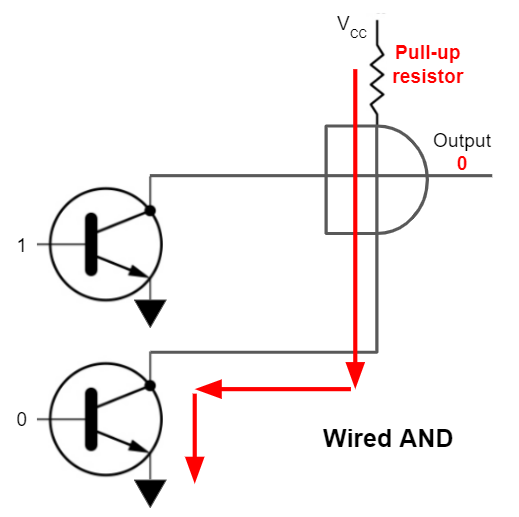
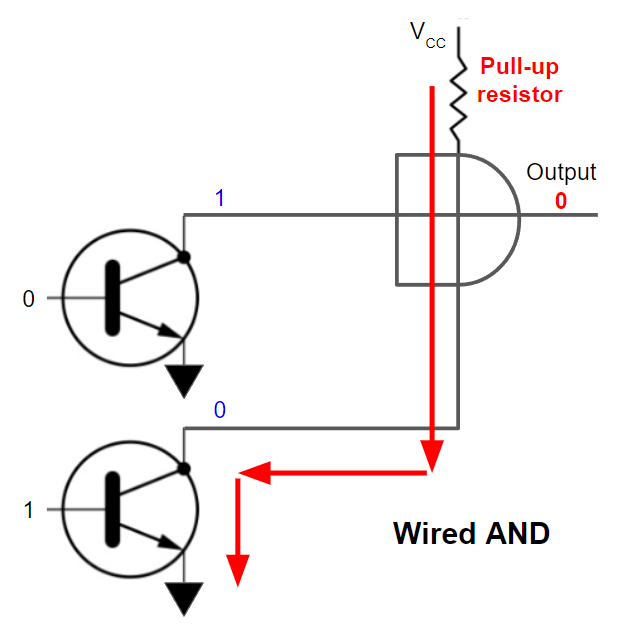
fix errata on ch02 of CE

diff --git a/docs/CE/ch02_co/ce02_04_0_gate.md b/docs/CE/ch02_co/ce02_04_0_gate.md
@@ -10,20 +10,27 @@ tags:
 
 > `Combinatorial Logic(조합논리) Circuit의 boolean function들을 구현한 H/W`.  
 >  
-> 보통 IC chip으로 제공되지만, Transistor로 꾸며볼 수도 있으며 FPGA에서는 아예 HDL을 통해 programming 형태로 이용할 수 있도록 제공되기도 함.
+> 보통 IC chip으로 제공되지만, ^^Transistor로 구현^^ 할 수도 있으며 ^^FPGA에서는 아예 HDL을 통해 programming 형태로 이용^^ 할 수 있도록 제공되기도 함.
 
 Combinatorial Logic Circuit은 
 
 * 일종의 instaneous system이며 
-* Boolean algebra의 logic function을 구현한 것이기 때문에 
+* Boolean algebra의 logic function을 구현한 것
 
-기본적인 Boolean algebra를 다루고, Combinatorial logic을 구현할 때 고려해야하는 noise에 대한 처리 방법과 propagation delay, output 방식등을 아주 간략히 다룬다. 
+이기 때문에  
+
+Cominatorial Logic Circuit에 대한 이번 장에서는
+
+* 전에 다룬 [Boolean algebra](../ch01/ch01_13_boolean_algebra.md)를 기반으로, 
+* Combinatorial logic을 구현할 때 고려해야하는 ^^noise에 대한 처리 방법^^ 과 
+* propagation delay, 
+* output 방식 등을 아주 간략히 다룬다. 
   
   
 `디지털회로` 나 `디지털회로실습`, 또는 Microprocessor 등에 대해 공부할 때 보다 자세히 다루게 되는 내용들을 대략적으로 소개하는 수준임.
 
-* [Combinatorial Logic Circuit](https://www.notion.so/mmmil/2-4-Logic-Gates-55f9c9b196794194a988ea125af72cd0)
-* [Gates and Boolean Algebra](https://dsaint31.tistory.com/entry/CI-Logic-Gates)
+* [Combinatorial Logic Circuit (ext)](https://dsaint31.tistory.com/entry/CI-Combinational-Circuit-or-Combinatonal-Logic-Circuit)
+* [Gates and Boolean Algebra (ext)](https://dsaint31.tistory.com/entry/CI-Logic-Gates)
 * [Noise Glitch, Schmitt Trigger and Differential signaling](ce02_04_1_glitch.md)
 * [Propagation Delay](ce02_04_3_propagation_delay.md)
 * [Gate Outputs](ce02_04_4_0_gate_outputs.md)

diff --git a/docs/CE/ch02_co/ce02_04_4_2_open_collector.md b/docs/CE/ch02_co/ce02_04_4_2_open_collector.md
@@ -2,13 +2,20 @@
 
 Tomtem-Pole Output과 달리, Open-collector (or open-drain) output은 여러 개를 같이 연결할 수 있다는 장점을 가짐.
 
-* 또한 `1`에 대한 출력을 5V 이상으로 변경 가능함.
+* 또한 `1`에 대한 출력을 5V 이상으로 변경 가능함 (pull-up resistor를 쓴 경우).
 * Totem-Pole Output보다 높은 current를 처리 가능. (LED 제어 등에 많이 사용됨)
 
+
+## 다음 그림은 Open-collector Output을 보여줌.
 ![open-collector_output](imgs/open_collector_output_pullup_resistor.png)
 
-* `floating` 상태에서 output을 오실로스코프의 probe로 찍을 경우, 아무런 voltage가 나오지를 않는데, 이는 0v를 의미하는게 아닌 probe를 허공에 대고 있는 것을 의미한다. 
-* 도체가 공중에 떠있는 상태인 `floating`은 voltage를 정의할 수 없다.
+* 왼쪽에 보이는 2개의 경우가 pull-up resistor가 없는 경우로 `1`을 출력하지 못함을 보여줌.
+    * `floating` (or `Hi-Z`) 상태에서 output을 오실로스코프의 probe로 찍을 경우, 아무런     voltage가 나오지를 않는데, 이는 0v를 의미하는게 아닌 probe를 허공에 대고 있는 것을 의미한다. 
+    * 도체가 공중에 떠있는 상태인 `floating`은 voltage를 정의할 수 없다.
+* 오른쪽의 박스로 보이는 경우가 pull-up resistor가 있는 경우이며, Open-collector라고 할 경우 대부분 이 경우를 말함.
+    * base에 `0`이 가해질 경우, transistor는 끊긴 상태로 저항이 무한대이므로 대부분의 전압이 transistor에 걸리므로 output은 `1`에 해당하는 출력이 이루어짐.
+    * base에 `1`이 가해질 경우, output은 gnd와 연결되어 `0`에 해당하는 출력이 이루어짐.
+
 
 ## 단점
 * Totem-Pole Output보다 속도가 느림 (pull-up resistor가 낮을 수록 속도가 빠르나, 이 경우 높은 전력소모가 발생.).

diff --git a/docs/CE/ch02_co/ce02_04_4_1_totem_pole_output.md b/docs/CE/ch02_co/ce02_04_4_1_totem_pole_output.md
@@ -7,10 +7,11 @@
 
 ![totem-pole-output](imgs/totem_pole_output.png)
 
-* 왼쪽은 input이 `0`이 들어가서, Totem-Pole의 상단에는 `1`이 하단에는 `0`이 들어가며 이로 인해 output이 `1`이 나옴.
-* 오른쪽은 output이 `1`이 들어간 경우로 output이 `0`으로 나옴.
-* 왼쪽과 오른쪽 각각의 그림에서 상하로 연결된 NPN BJT들의 구조가 Totem-Pole 임.
-* 상하의 NPN BJT의 base에서 들어가는 input은 항상 달라야 함(상보형 동작).
+* 오른쪽 푸른색 박스가 Totem-pole output의 구성이고, 왼쪽 검은색 박스는 Totem-pole output의 transistor에 입력을 가할 때의 출력을 보여준다. 
+    * 왼쪽 검은색 박스의 왼쪽은 input이 `0`이 들어가서, Totem-Pole의 상단에는 `1`이 하단에는 `0`이 들어가며 이로 인해 output이 `1`이 나옴.
+    * 왼쪽 검은색 박스의 오른쪽은 output이 `1`이 들어간 경우로 output이 `0`으로 나옴.
+* 왼쪽 검은색 박스의 왼쪽과 오른쪽 각각의 그림에서 ^^상하로 연결된 NPN BJT들의 구조가 Totem-Pole^^ 임.
+    * 상하의 NPN BJT의 base에서 들어가는 input은 항상 달라야 함(상보형 동작).
 
 상단의 BJT는 일종의 **active pull-up** 으로 출력을 high voltage와 연결하고 있음.
 

diff --git a/docs/CE/ch02_co/ce02_05_0_adder_encoder_demux.md b/docs/CE/ch02_co/ce02_05_0_adder_encoder_demux.md
@@ -12,10 +12,10 @@ Programming에서는 단순한 statement와 expression들을 조합하여 functi
 
 ## 구성.
 
-* [Half Adder and Full Adder](#)
+* [Half Adder and Full Adder (notion)](https://dsaint31.notion.site/2-5-1-Building-an-Adder-8d766ecdc59d4241bdd70309f9651e12)
 * [Decoder and Encder](https://dsaint31.tistory.com/entry/CI-Binary-Decoderhttps://dsaint31.tistory.com/manage/newpost/404?type=post&returnURL=https%3A%2F%2Fdsaint31.tistory.com%2Fentry%2FCI-Binary-Decoder)
-  - One-hot code 에서 binary code로 변환하는 binary encoder
-  - 이를 반대로 수행하는 binary decoder를 간단히 살펴봄.
+  * One-hot code 에서 binary code로 변환하는 binary encoder
+  * 이를 반대로 수행하는 binary decoder를 간단히 살펴봄.
 * [Demux and Mux](https://dsaint31.tistory.com/entry/CI-Demultiplexer-and-Multiplexer)
-  - Demux (single input, multiple outpus)
-  - Mux (multiple inputs, single ouputs) = selector
+  * Demux (single input, multiple outpus)
+  *- Mux (multiple inputs, single ouputs) = selector

diff --git a/docs/DIP/cv2/ch02/dip_edge_detection_high_pass_filter.md b/docs/DIP/cv2/ch02/dip_edge_detection_high_pass_filter.md
@@ -67,7 +67,7 @@ cv2_imshow(results)
 
 ![](../../img/ch02/dip_gradient00.png)
 
-## Lawrence Roberts Filter (Cross Filter)
+### Lawrence Roberts Filter (Cross Filter)
 
 1963년 로렌스 로버츠 제안.
 
@@ -93,7 +93,7 @@ results = np.hstack((img,np.abs(x_edge),np.abs(y_edge),np.abs(x_edge)+np.abs(y_e
 cv2_imshow(results)
 ```
 
-## Prewitt Filter
+### Prewitt Filter
 
 주디스 프리윗이 제안
 
@@ -129,7 +129,7 @@ cv2_imshow(results)
 
 ![](../../img/ch02/dip_prewitt_centered_diff.png)
 
-## Sobel Filter
+### Sobel Filter
 
 1968년 Irwin Sobel이 제안
 
@@ -184,7 +184,7 @@ cv2_imshow(results)
 
 ![](../../img/ch02/dip_sobel.png)
 
-## Scharr Filter
+### Scharr Filter
 
 Soble의 단점을 개선함.
 

diff --git a/docs/CE/ch02_co/ce02_04_1_glitch.md b/docs/CE/ch02_co/ce02_04_1_glitch.md
@@ -26,8 +26,6 @@ Digital Circuit에서의 **Glitch** 는 아주 짧은 시간 동안
 
 앞서 애기한 Noise glitch의 경우, Schmitt trigger 등을 사용하면 해결됨. 
 
-* [Schmitt Trigger](https://dsaint31.tistory.com/entry/CI-Schmitt-trigger) : Hysteresis 를 이용!
-음음
-또는 Differential signaling을 통한 noise를 줄일 수 있음. 
+* [Schmitt Trigger](https://dsaint31.tistory.com/entry/CI-Schmitt-trigger) : Hysteresis 를 이용하거나 Differential signaling을 통해 noise를 줄일 수 있음. 
 
 * [Differential signaling](https://dsaint31.tistory.com/entry/CI-Differential-Signaling-%EC%B0%A8%EB%8F%99%EC%8B%A0%ED%98%B8)

diff --git a/docs/CE/ch02_co/ce02_04_3_propagation_delay.md b/docs/CE/ch02_co/ce02_04_3_propagation_delay.md
@@ -1,7 +1,7 @@
 # Propagation Delay (전파지연)
 
-gate 등에서 input이 output에 영향을 주기까지 걸리는 시간을 가르킴.  
-(이상적인 회로 설계와 실제 구현간의 가장 큰 간극.)
+**gate 등에서 input이 output에 영향을 주기까지 걸리는 시간** 을 가르킴.  
+(이상적인 회로 설계와 실제 구현 간의 가장 큰 간극에 해당함.)
 
 > Propagation dealy에 대한 간단한 설명이 있는 URL.
 >   
